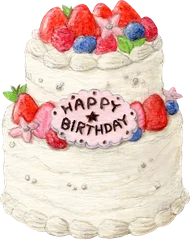
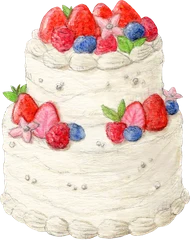
豪華ケーキからバースデー系を除外(2種に)
Claude-Session: https://claude.ai/code/session_01ErYMe7dtXhNSACz1raq5NT

Changed region(s): [[0.2632, 0.35, 0.7368, 0.6417]]

diff --git a/index.html b/index.html
@@ -8,7 +8,7 @@
 <title>しぃ｜公式サイト</title>
 <meta name="description" content="ほにゃららLIVERS所属・Mirrativ配信者しぃの公式サイト。">
 <meta name="theme-color" content="#F3DDE3">
-<meta name="build" content="20261119120000">
+<meta name="build" content="20261119130000">
 <meta property="og:type" content="website">
 <meta property="og:site_name" content="しぃの部屋">
 <meta property="og:title" content="しぃの部屋｜しぃ公式サイト">
@@ -2656,7 +2656,7 @@ try{ if(!sessionStorage.getItem('shii_op') && !matchMedia('(prefers-reduced-moti
     var im=t.querySelector('img'); if(im) zoomCake(im.getAttribute('src'),t.classList.contains('is-lux'));
   });
   // 豪華ケーキ：今月のケーキが10個たまったら、10個を豪華ケーキ1個に交換できる（飾りかえ。この端末だけ・月がかわるとリセット。数字は減らない）
-  var LUXK='shii_clap_lux', LUXN=5, lux=0;
+  var LUXK='shii_clap_lux', LUXN=2, lux=0;
   function loadLux(){ try{ var v=JSON.parse(localStorage.getItem(LUXK)||'null'); lux=(v&&v.ym===ym)?Math.max(0,Math.floor(+v.n||0)):0; }catch(e){ lux=0; } }
   function saveLux(){ try{ localStorage.setItem(LUXK,JSON.stringify({ym:ym,n:lux})); }catch(e){} }
   // できたケーキは、しぃのまわりにふえていく（左右に6個ずつ、あわせて12個まで）。ケーキの絵はいろんなケーキのイラストセット（Illustrator Factory）

diff --git a/sw.js b/sw.js
@@ -1,5 +1,5 @@
 // しぃの部屋：オフラインでも開けるようにするキャッシュ
-const CACHE = 'shii-20261119120000';
+const CACHE = 'shii-20261119130000';
 const FILES = ['./', './index.html', './manifest.webmanifest', './icon-192.png', './icon-512.png', './apple-touch-icon.png'];
 
 self.addEventListener('install', e => {
